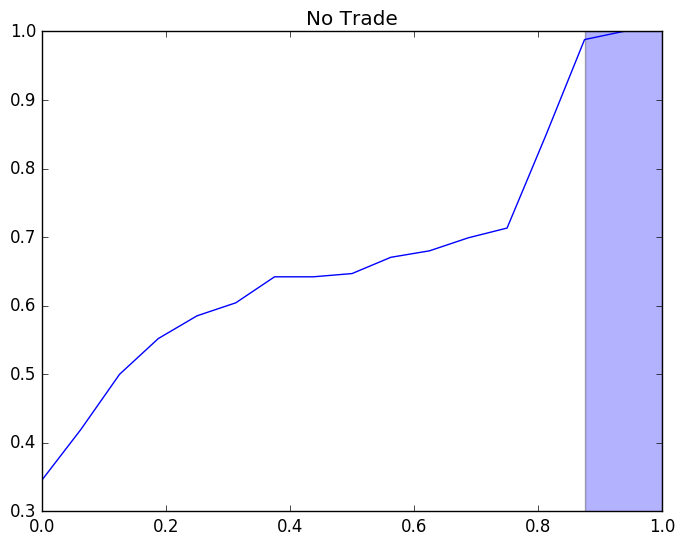
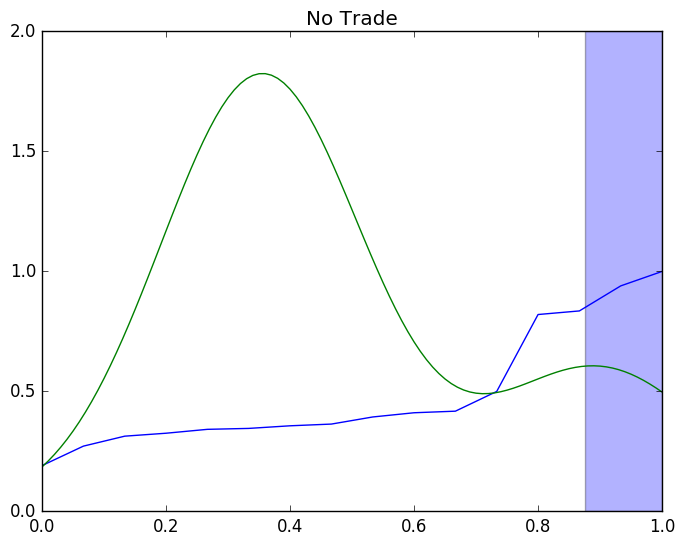
analysis 2

diff --git a/Analysis1.py b/Analysis1.py
@@ -4,36 +4,74 @@ import numpy as np
 import matplotlib.pyplot as plt
 from matplotlib.patches import Polygon
 from matplotlib.collections import PatchCollection
+from PIL import Image
 
-def analyze(fig, ax, tradeQuantities):
+def analyze(fig, ax, trade, tradeQuantities):
     m = max(tradeQuantities)
     if(m == 0):
         return
     normalized = [x/m for x in tradeQuantities]
     s = sorted(normalized)
    # c = np.cumsum(s)
-    x = [x/len(tradeQuantities) for x in range(0,len(tradeQuantities))]
+    x = [x/(len(tradeQuantities)-1) for x in range(0,len(tradeQuantities))]
     ax.plot(x,s)
+
+    kde = scipy.stats.gaussian_kde(s)
+    x = [x/100 for x in range(0,101)]
+    y = kde(x).T
+    ax.plot(x,y)
+
     mn = np.median(s)
     sd = np.std(s)
     mnsd = mn + 2 * sd
     if(mnsd < 1):
         crossing = [b for b in s > mnsd].index(True) / len(s)
-        polygonPoints = [[crossing, 1], [crossing, 0], [1, 0], [1,1]]
+        xb, xt = ax.get_xlim()
+        yb, yt = ax.get_ylim()
+        polygonPoints = [[crossing, yt], [crossing, yb], [xt, yb], [xt,yt]]
         polygon = Polygon(polygonPoints, True)
         p = PatchCollection([polygon], alpha=0.3)
         ax.add_collection(p)
-  #  kde = scipy.stats.gaussian_kde(s)
-  #  x = [x/100 for x in range(0,101)]
-  #  y = kde(x).T
-  #  plt.plot(x,y)
-
-
-data = Shared.getCatastoData()
-
-for trade in range(0,100):
-    fig, ax = plt.subplots()
-    neighbourhood = [x[trade] for n, x in data.items()]
-    plt.title(Shared.getTradeName(trade))
-    analyze(fig, ax, neighbourhood)
+    map = recolourMap(normalized, trade)
     fig.savefig('results/trade_' + str(trade) + '.png', bbox_inches='tight')
+    if(mnsd < 1):
+        return np.argmax(normalized)
+    return 0
+
+def recolourMap(values, trade):
+    with open("florence-map-small.png", 'rb') as fp:
+        fm = Image.open(fp)
+        pixels = fm.load()
+        for x in range(fm.width):
+            for y in range(fm.height):
+                px = pixels[x, y]
+                for i, n in enumerate(Shared.getNeighbourhoods().keys()):
+                    g = int(n / 10)
+                    b = n % 10
+                    if px[0] == 0 and px[1] == g and px[2] == b:
+                        pixels[x, y] = (int(values[i] * 255), 0, 0, 255)
+        fm.save("results/trademap_" + str(trade) + ".png")
+    return fm
+
+def getMCN(trade, tradesmen, population):
+    fig, ax = plt.subplots()
+    neighbourhood = [x[trade] for n, x in tradesmen.items()]
+    totalTradesmen = sum(neighbourhood)
+    if(totalTradesmen > 20):
+        perCapita = [n / p for n, p in zip(neighbourhood, population)]
+        plt.title(Shared.getTradeName(trade))
+        bimodal = analyze(fig, ax, trade, perCapita)
+        return bimodal
+    return -1
+
+tradesmen, population, tradeWealth = Shared.getCatastoData()
+centralized = []
+decentralized = []
+for trade in range(0,100):
+    bimodal = getMCN(trade, tradesmen, population)
+    if bimodal:
+        centralized.append(Shared.getTradeName(trade))
+    else:
+        decentralized.append(Shared.getTradeName(trade))
+print(centralized)
+print(decentralized)

diff --git a/Analysis2.py b/Analysis2.py
@@ -1,0 +1,99 @@
+import Shared
+import scipy.stats.kde
+import numpy as np
+import matplotlib.pyplot as plt
+from matplotlib.patches import Polygon
+from matplotlib.collections import PatchCollection
+import scipy.stats
+import sklearn.cluster
+import networkx as nx
+
+def analyze(t1Data, t2Data):
+    m1 = max(t1Data)
+    m2 = max(t2Data)
+    normalized1 = [x/m1 for x in t1Data]
+    normalized2 = [x/m2 for x in t2Data]
+    #plt.scatter(normalized1,normalized2)
+    #plt.show()
+    return scipy.stats.linregress(t1Data,t2Data)[2]
+
+
+tradesmen, population, tradeWealth = Shared.getCatastoData()
+
+threshold = 20
+centralized = []
+decentralized = []
+cormap = []
+validTrades = []
+for trade1 in range(1,100):
+    t1Data = [x[trade1] for n, x in tradesmen.items()]
+    t1Sum = sum(t1Data)
+    if(t1Sum > threshold):
+        validTrades.append(trade1)
+        tmp = []
+        for trade2 in range(1,100):
+            t2Data = [x[trade2] for n, x in tradesmen.items()]
+            t2Sum = sum(t2Data)
+            if(t2Sum > threshold):
+                perCapita1 = [n / p for n, p in zip(t1Data, population)]
+                perCapita2 = [n / p for n, p in zip(t2Data, population)]
+                correlation = analyze(perCapita1, perCapita2)
+                tmp.append(correlation)
+        cormap.append(tmp)
+
+c = np.empty([len(cormap), len(cormap)])
+for x in range(0,len(cormap)):
+    for y in range(0, len(cormap)):
+        c[x, y] = cormap[x][y]
+
+
+
+
+ap = sklearn.cluster.AffinityPropagation(damping = 0.9 , affinity='precomputed')
+#ap = sklearn.cluster.KMeans()
+wmin = scipy.mean(c)
+#ap = sklearn.cluster.MeanShift(bandwidth=100, cluster_all=False)
+#ap.fit(c)
+labels = ap.fit_predict(c)
+print(labels)
+tl = []
+Gl = []
+for label in range(min(labels), max(labels) +1):
+    tl.append([])
+    Gl.append(nx.Graph())
+    for i in range(len(labels)):
+        if(labels[i] == label):
+            trade = validTrades[i]
+            tl[label].append(Shared.getTradeName(trade))
+            Gl[label].add_node(Shared.getTradeName(trade))
+
+    weights = []
+    for i in range(len(labels)):
+        if(labels[i] == label):
+            for j in range(len(labels)):
+                if(labels[j] == label):
+                    for x in range(1,4):
+                        highTrade = np.argmax(c[i] == sorted(c[i], reverse = True)[x])
+                        w = c[i][highTrade]
+                        Gl[label - min(labels)].add_edge(Shared.getTradeName(i),Shared.getTradeName(highTrade),weight=w)
+                       # if(highTrade > i):
+                       #     weights.append(w)
+
+    for node in Gl[label-min(labels)].nodes():
+
+
+    print("Group " + str(label))
+    nx.draw(Gl[label - min(labels)],width=4,edge_cmap=plt.cm.Blues,with_labels=True)
+    plt.show()
+print(tl)
+
+
+
+#plt.imshow(labels)
+
+fig = plt.figure(figsize=(6, 3.2))
+ax = fig.add_subplot(111)
+plt.imshow(c)
+ax.set_aspect('equal')
+plt.colorbar(orientation='vertical')
+plt.show()

diff --git a/Shared.py b/Shared.py
@@ -5,27 +5,63 @@ import csv
 def getCatastoData():
 
     catastoUrlBase = "http://cds.library.brown.edu/projects/catasto/newsearch/tabdel.php?dbname=Catasto&rawquery="
-    sqlQuery = "SELECT location, trade FROM catasto ORDER BY trade LIMIT 100000"
+    sqlQuery = "SELECT location, trade, bocche, taxable FROM catasto ORDER BY trade LIMIT 100000"
 
     requestUrl = str(catastoUrlBase) + urllib.parse.quote(str(sqlQuery))
     response = urllib.request.urlopen(requestUrl)
     data = csv.reader(response.read().decode('utf: "8').splitlines(), delimiter='\t')
 
     next(data)
-    sums = {}
-    neighbourhoodList = [11, 12, 13, 14, 21, 22, 23, 24, 31, 32, 33, 34, 41, 42, 43, 44]
+    tradesmen = {}
+    tradeWealth = {}
+    population = {}
+    neighbourhoodList = getNeighbourhoods().keys()
     for neighbourhood in neighbourhoodList:
-        sums[neighbourhood] = {}
+        tradesmen[neighbourhood] = {}
+        tradeWealth[neighbourhood] = {}
+        population[neighbourhood] = 0
         for trade in range(0,100):
-            sums[neighbourhood][trade] = 0
+            tradesmen[neighbourhood][trade] = 0
+            tradeWealth[neighbourhood][trade] = 0
 
     for line in data:
         neighbourhood = int(line[0])
         trade = int(line[1]) % 100
-        if(neighbourhood in sums):
-            sums[neighbourhood][trade] += 1
+        housePop = int(line[2])
+        wealth = int(line[3])
+        if(neighbourhood in neighbourhoodList):
+            tradesmen[neighbourhood][trade] += 1
+            population[neighbourhood] += housePop
+            tradeWealth[neighbourhood][trade] += wealth
 
-    return sums
+    return tradesmen, population, tradeWealth
+
+
+def neighbourhoodNameToIndex(neighbourhood):
+    if type(neighbourhood) is str:
+        neighbourhood = getNeighbourhoods().index(neighbourhood)
+    return neighbourhood
+
+def getNeighbourhoods():
+    neighbourhoodList = {
+      11: "Scala",
+      12: "Nicchio",
+      13: "Ferza",
+      14: "Drago",
+      21: "Carro",
+      22: "Bue",
+      23: "Leon Nero",
+      24: "Ruote",
+      31: "Vipera",
+      32: "Unicorno",
+      33: "Leon Rosso",
+      34: "Leon Bianco",
+      41: "Leon D'Oro",
+      42: "Drago",
+      43: "Chiavi",
+      44: "Vaio"
+    }
+    return neighbourhoodList
 
 def getTradeName(tradeNumber):
     tradeNames = {  0: "No Trade",
